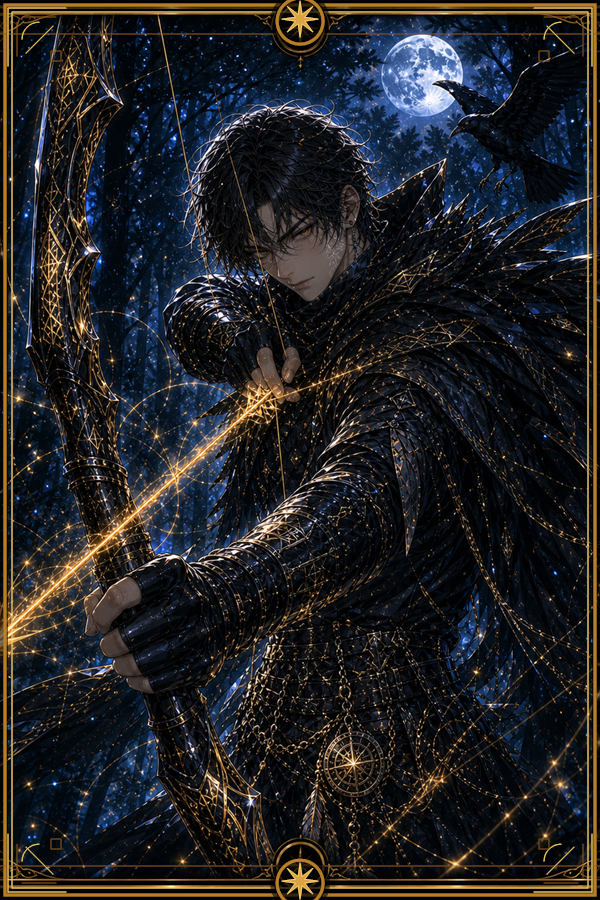
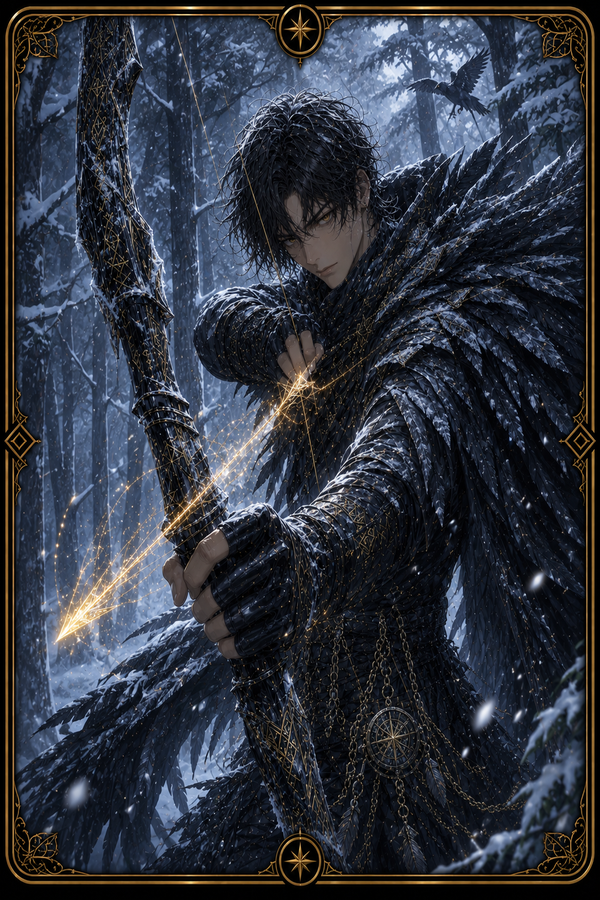
feat: mood UX polish + chapter scroll + image refresh
UX:
- 오늘 기분 입력 위젯을 페이지 상단(세계 상태 패널 하단)으로 이동.
  운세 생성 전에도, 모든 카테고리 탭에서 노출.
- saveMoodAction: revalidatePath("/today") 호출로 세계 상태 패널이
  기분 저장 즉시 새 균열 점수로 재렌더.
- saveMoodAction: 균열 점수는 1일 1회만 반영하도록 가드 추가
  (mood 자체는 upsert 유지).
- 캐릭터 스토리 챕터 펼침 시 챕터 헤더가 viewport 상단으로 자동 스크롤
  → 이미지가 가장 먼저 눈에 들어옴.

이미지:
- hunter (비요른) day/night 600x900 교체 — 눈보라 + 활 든 야성 사냥꾼.
- 카엘 CH5 "붉은 연회" 일러스트 재교체.

diff --git a/src/components/chat/character-lore-card.tsx b/src/components/chat/character-lore-card.tsx
@@ -440,65 +440,16 @@ function CharacterStoryAccordion({
               const unlocked = chap.number <= unlockedCount;
               const isExpanded = openChapter === chap.number;
               return (
-                <div
+                <ChapterRow
                   key={chap.number}
-                  className="rounded-lg border border-white/5 bg-white/3 overflow-hidden"
-                >
-                  <button
-                    type="button"
-                    onClick={() =>
-                      unlocked
-                        ? setOpenChapter(isExpanded ? null : chap.number)
-                        : undefined
-                    }
-                    disabled={!unlocked}
-                    className={cn(
-                      "w-full flex items-center justify-between gap-3 px-3 py-2 text-left",
-                      unlocked ? "cursor-pointer" : "cursor-not-allowed opacity-50",
-                    )}
-                  >
-                    <div className="flex items-center gap-2.5 min-w-0">
-                      <span
-                        className={cn(
-                          "flex h-6 w-6 flex-shrink-0 items-center justify-center rounded-full text-[10px] tabular-nums font-bold",
-                          unlocked
-                            ? "bg-white/10 text-foreground/80"
-                            : "bg-white/5 text-muted-foreground/40",
-                        )}
-                      >
-                        {chap.number}
-                      </span>
-                      {unlocked ? (
-                        <span className="text-xs font-medium text-foreground/85 truncate">
-                          {chap.title}
-                        </span>
-                      ) : (
-                        <span className="text-xs text-muted-foreground/50 flex items-center gap-1.5">
-                          <Lock className="h-3 w-3" aria-hidden />
-                          Lv.{chap.number} 해금
-                        </span>
-                      )}
-                    </div>
-                    {unlocked && (
-                      <ChevronDown
-                        className={cn(
-                          "h-3 w-3 text-muted-foreground/50 transition-transform flex-shrink-0",
-                          isExpanded && "rotate-180",
-                        )}
-                      />
-                    )}
-                  </button>
-                  {unlocked && isExpanded && (
-                    <div className="px-4 pb-4 pt-2 border-t border-white/5 space-y-4">
-                      <ChapterImage
-                        characterId={characterId}
-                        chapterNumber={chap.number}
-                        title={chap.title}
-                      />
-                      <ChapterBody body={chap.body} />
-                    </div>
-                  )}
-                </div>
+                  characterId={characterId}
+                  chapter={chap}
+                  unlocked={unlocked}
+                  isExpanded={isExpanded}
+                  onToggle={() =>
+                    setOpenChapter(isExpanded ? null : chap.number)
+                  }
+                />
               );
             })
           )}
@@ -616,6 +567,101 @@ function TruthRouteSection({
           </div>
         )}
       </div>
+    </div>
+  );
+}
+
+// ════════════════════════════════════════════════════════════════════════════
+// 챕터 단일 행 — 열림 시 이미지가 화면 상단에 오도록 스크롤
+// ════════════════════════════════════════════════════════════════════════════
+
+interface ChapterRowProps {
+  characterId: CharacterId;
+  chapter: { number: number; title: string; body: string };
+  unlocked: boolean;
+  isExpanded: boolean;
+  onToggle: () => void;
+}
+
+function ChapterRow({
+  characterId,
+  chapter,
+  unlocked,
+  isExpanded,
+  onToggle,
+}: ChapterRowProps) {
+  const rowRef = useRef<HTMLDivElement>(null);
+  const wasExpandedRef = useRef(isExpanded);
+
+  // 챕터가 새로 펼쳐지는 순간 — 챕터 헤더(곧이어 이미지가 오는 위치)가
+  // viewport 상단에 자리잡도록 부드럽게 스크롤한다.
+  useEffect(() => {
+    if (isExpanded && !wasExpandedRef.current && rowRef.current) {
+      // 본문/이미지 DOM 이 마운트된 다음 프레임에 스크롤해야 정확.
+      const id = requestAnimationFrame(() => {
+        rowRef.current?.scrollIntoView({ behavior: "smooth", block: "start" });
+      });
+      wasExpandedRef.current = isExpanded;
+      return () => cancelAnimationFrame(id);
+    }
+    wasExpandedRef.current = isExpanded;
+  }, [isExpanded]);
+
+  return (
+    <div
+      ref={rowRef}
+      className="rounded-lg border border-white/5 bg-white/3 overflow-hidden scroll-mt-20"
+    >
+      <button
+        type="button"
+        onClick={unlocked ? onToggle : undefined}
+        disabled={!unlocked}
+        className={cn(
+          "w-full flex items-center justify-between gap-3 px-3 py-2 text-left",
+          unlocked ? "cursor-pointer" : "cursor-not-allowed opacity-50",
+        )}
+      >
+        <div className="flex items-center gap-2.5 min-w-0">
+          <span
+            className={cn(
+              "flex h-6 w-6 flex-shrink-0 items-center justify-center rounded-full text-[10px] tabular-nums font-bold",
+              unlocked
+                ? "bg-white/10 text-foreground/80"
+                : "bg-white/5 text-muted-foreground/40",
+            )}
+          >
+            {chapter.number}
+          </span>
+          {unlocked ? (
+            <span className="text-xs font-medium text-foreground/85 truncate">
+              {chapter.title}
+            </span>
+          ) : (
+            <span className="text-xs text-muted-foreground/50 flex items-center gap-1.5">
+              <Lock className="h-3 w-3" aria-hidden />
+              Lv.{chapter.number} 해금
+            </span>
+          )}
+        </div>
+        {unlocked && (
+          <ChevronDown
+            className={cn(
+              "h-3 w-3 text-muted-foreground/50 transition-transform flex-shrink-0",
+              isExpanded && "rotate-180",
+            )}
+          />
+        )}
+      </button>
+      {unlocked && isExpanded && (
+        <div className="px-4 pb-4 pt-2 border-t border-white/5 space-y-4">
+          <ChapterImage
+            characterId={characterId}
+            chapterNumber={chapter.number}
+            title={chapter.title}
+          />
+          <ChapterBody body={chapter.body} />
+        </div>
+      )}
     </div>
   );
 }

diff --git a/src/app/(dashboard)/today/mood-actions.ts b/src/app/(dashboard)/today/mood-actions.ts
@@ -1,7 +1,9 @@
 "use server";
 
+import { revalidatePath } from "next/cache";
+
 import { requireProfile } from "@/lib/auth/get-user";
-import { saveMood, type MoodKey } from "@/lib/mood/service";
+import { saveMood, getTodayMood, type MoodKey } from "@/lib/mood/service";
 import { addCrack, reduceCrack } from "@/lib/crack/service";
 
 /** 감정별 균열 증감량 */
@@ -18,9 +20,20 @@ export async function saveMoodAction(opts: {
   source?: string;
 }): Promise<void> {
   const { profile } = await requireProfile();
+
+  // 오늘 이미 기록된 기분이 있으면 균열 점수는 다시 적용하지 않는다
+  // (mood 자체는 saveMood 가 upsert 처리하지만, 균열은 1일 1회만 반영).
+  const existing = await getTodayMood(profile.userId);
+  const isFirstToday = existing === null;
+
   await saveMood({ userId: profile.userId, mood: opts.mood, source: opts.source });
 
-  const delta = MOOD_CRACK[opts.mood] ?? 0;
-  if (delta > 0) await addCrack(profile.userId, delta, `mood:${opts.mood}`);
-  if (delta < 0) await reduceCrack(profile.userId, Math.abs(delta));
+  if (isFirstToday) {
+    const delta = MOOD_CRACK[opts.mood] ?? 0;
+    if (delta > 0) await addCrack(profile.userId, delta, `mood:${opts.mood}`);
+    if (delta < 0) await reduceCrack(profile.userId, Math.abs(delta));
+  }
+
+  // 서버 컴포넌트(/today 의 WorldStatusPanel 등)를 새 균열 점수로 재렌더.
+  revalidatePath("/today");
 }

diff --git a/src/app/(dashboard)/today/page.tsx b/src/app/(dashboard)/today/page.tsx
@@ -150,6 +150,10 @@ export default async function TodayPage({ searchParams }: TodayPageProps) {
 
       {/* 오늘의 세계 상태 — 균열 측정 + 관측 로그 */}
       <WorldStatusPanel crackLevel={crackData.level} />
+
+      {/* 오늘 기분 — 운세 생성 전부터 페이지 진입 시 바로 입력 가능 */}
+      <MoodCapture todayMood={todayMood?.mood ?? null} source="today_top" />
+
       <EventLogFeed crackLevel={crackData.level} />
 
       {/* 주술사 호출 — 먼저 말을 건다 */}
@@ -217,9 +221,6 @@ export default async function TodayPage({ searchParams }: TodayPageProps) {
           {fortune ? (
             <div id="fortune-result" className="space-y-6">
               <FortuneCard fortune={fortune} crackLevel={crackData.level} />
-              {category === "general" && (
-                <MoodCapture todayMood={todayMood?.mood ?? null} source="fortune" />
-              )}
               {category === "money" && (
                 <LottoGenerator fortune={fortune} subscribed={subscribed} />
               )}
